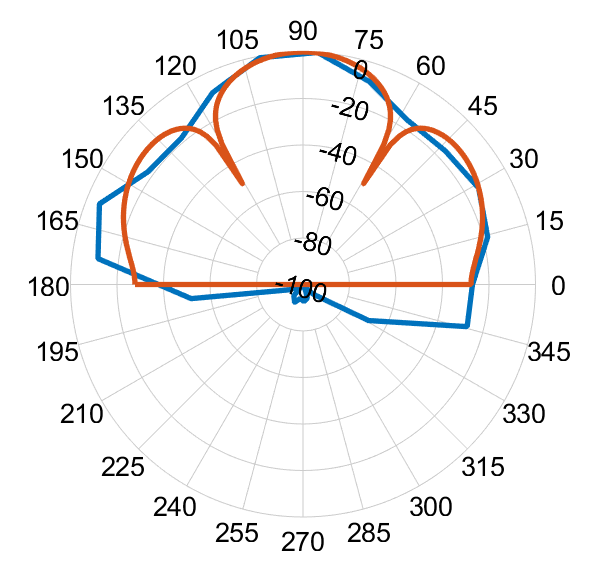
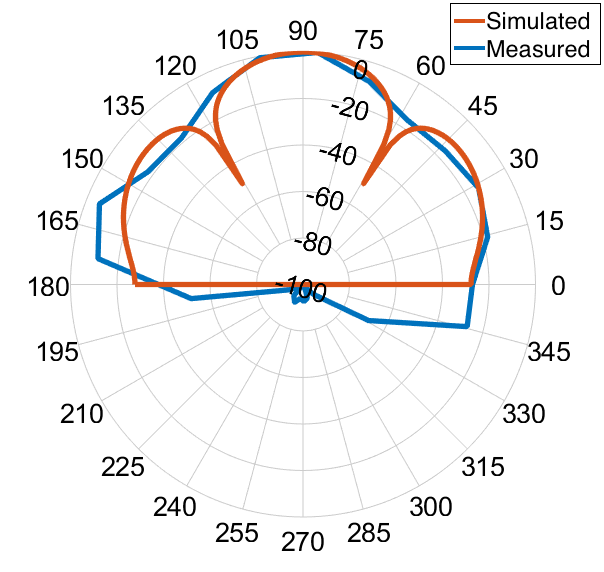
Added legend to polar plot

Changed region(s): [[0.745, 0.0, 1.0, 0.1189]]

diff --git a/Poster/conference_poster_4.tex b/Poster/conference_poster_4.tex
@@ -203,7 +203,7 @@ For future development of the hearing aid, a number of improvements could be mad
 
 {\large \textbf{Device Testing}}
 \begin{center}
-	\includegraphics[width=0.3\linewidth]{directionalityLabTest.png}
+	\includegraphics[width=0.4\linewidth]{directionalityLabTest.png}
 	\captionof{figure}{Procedure for testing the hearing aid}
 \end{center}
 }
@@ -216,7 +216,7 @@ For future development of the hearing aid, a number of improvements could be mad
 \headerbox{Conclusion}{name=conclusion,column=2,below=FutureWork}{ % This block's bottom aligns with the bottom of the conclusion block
 This project is a proof of concept that an inexpensive, fully functional, adaptive hearing aid can be produced. 
 \begin{itemize}\compresslist
-	\item Average error = 32.9\% 	
+	\item Average error between simulated and measured beam steering = 32.9\% 	
 \end{itemize}	
 }
 
